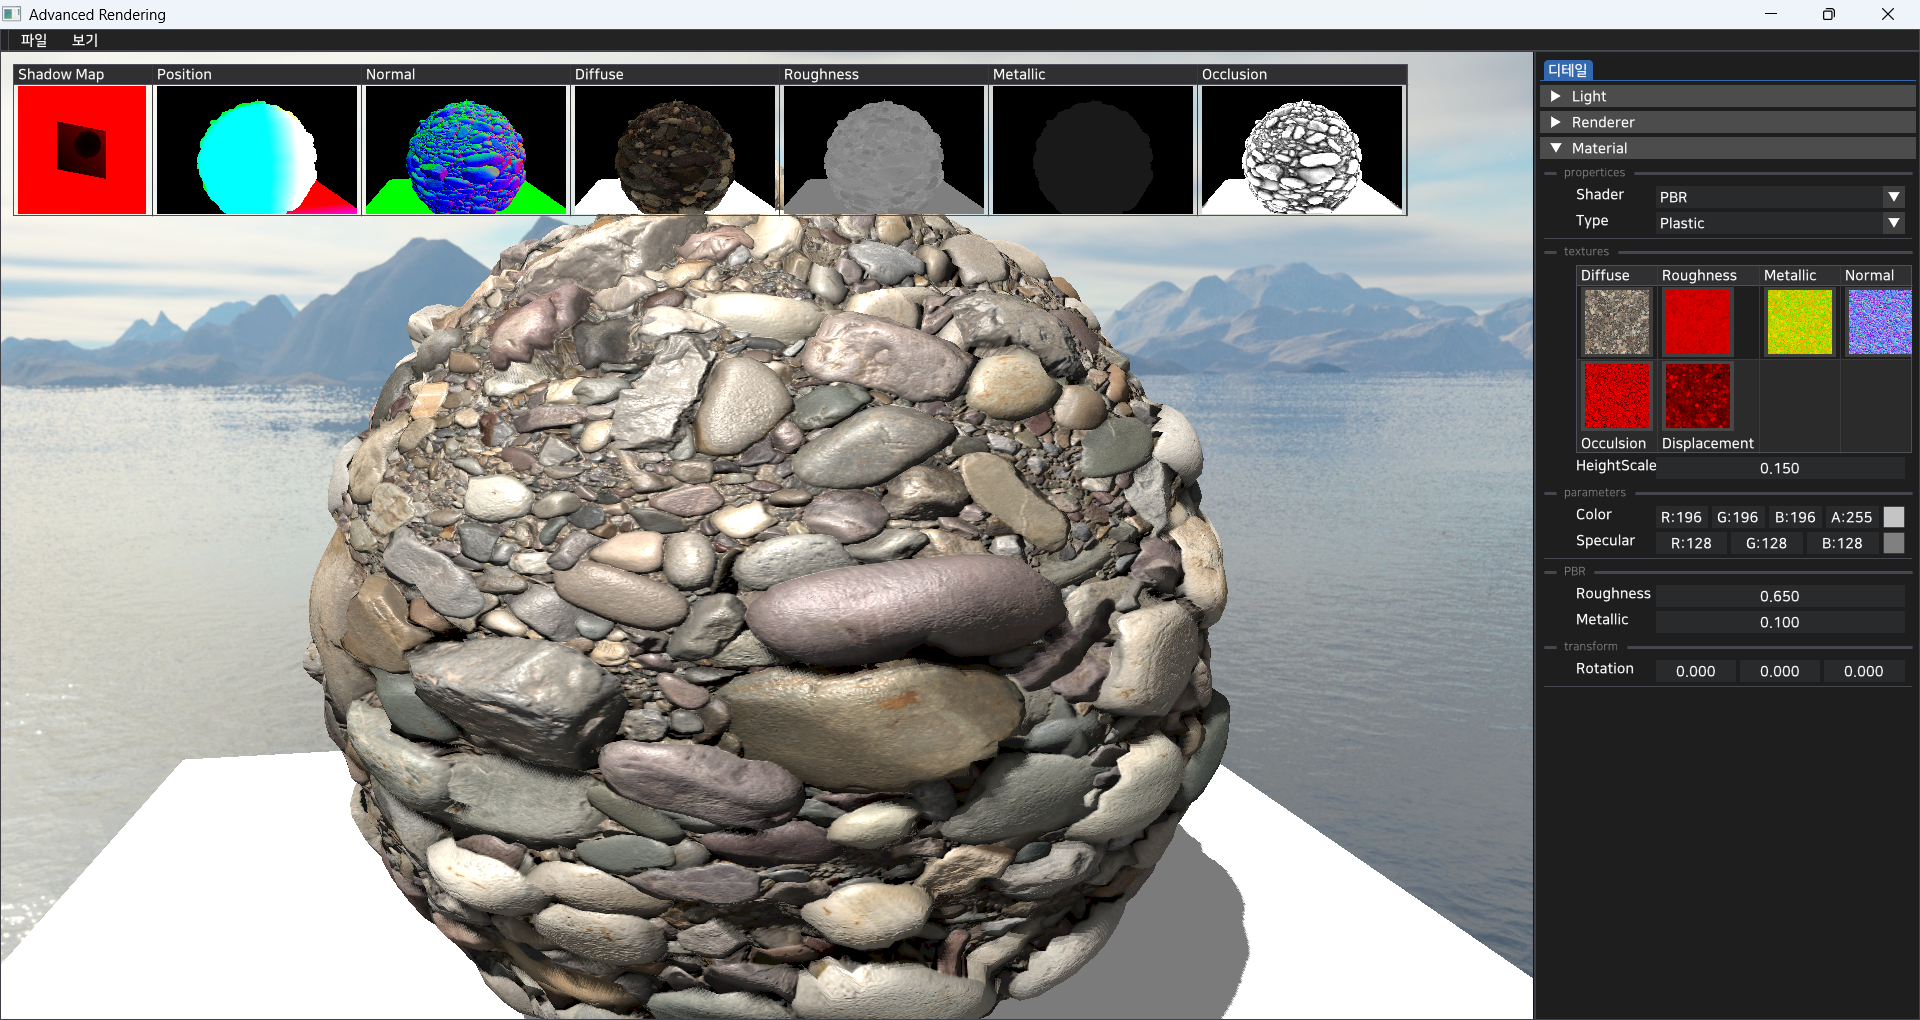
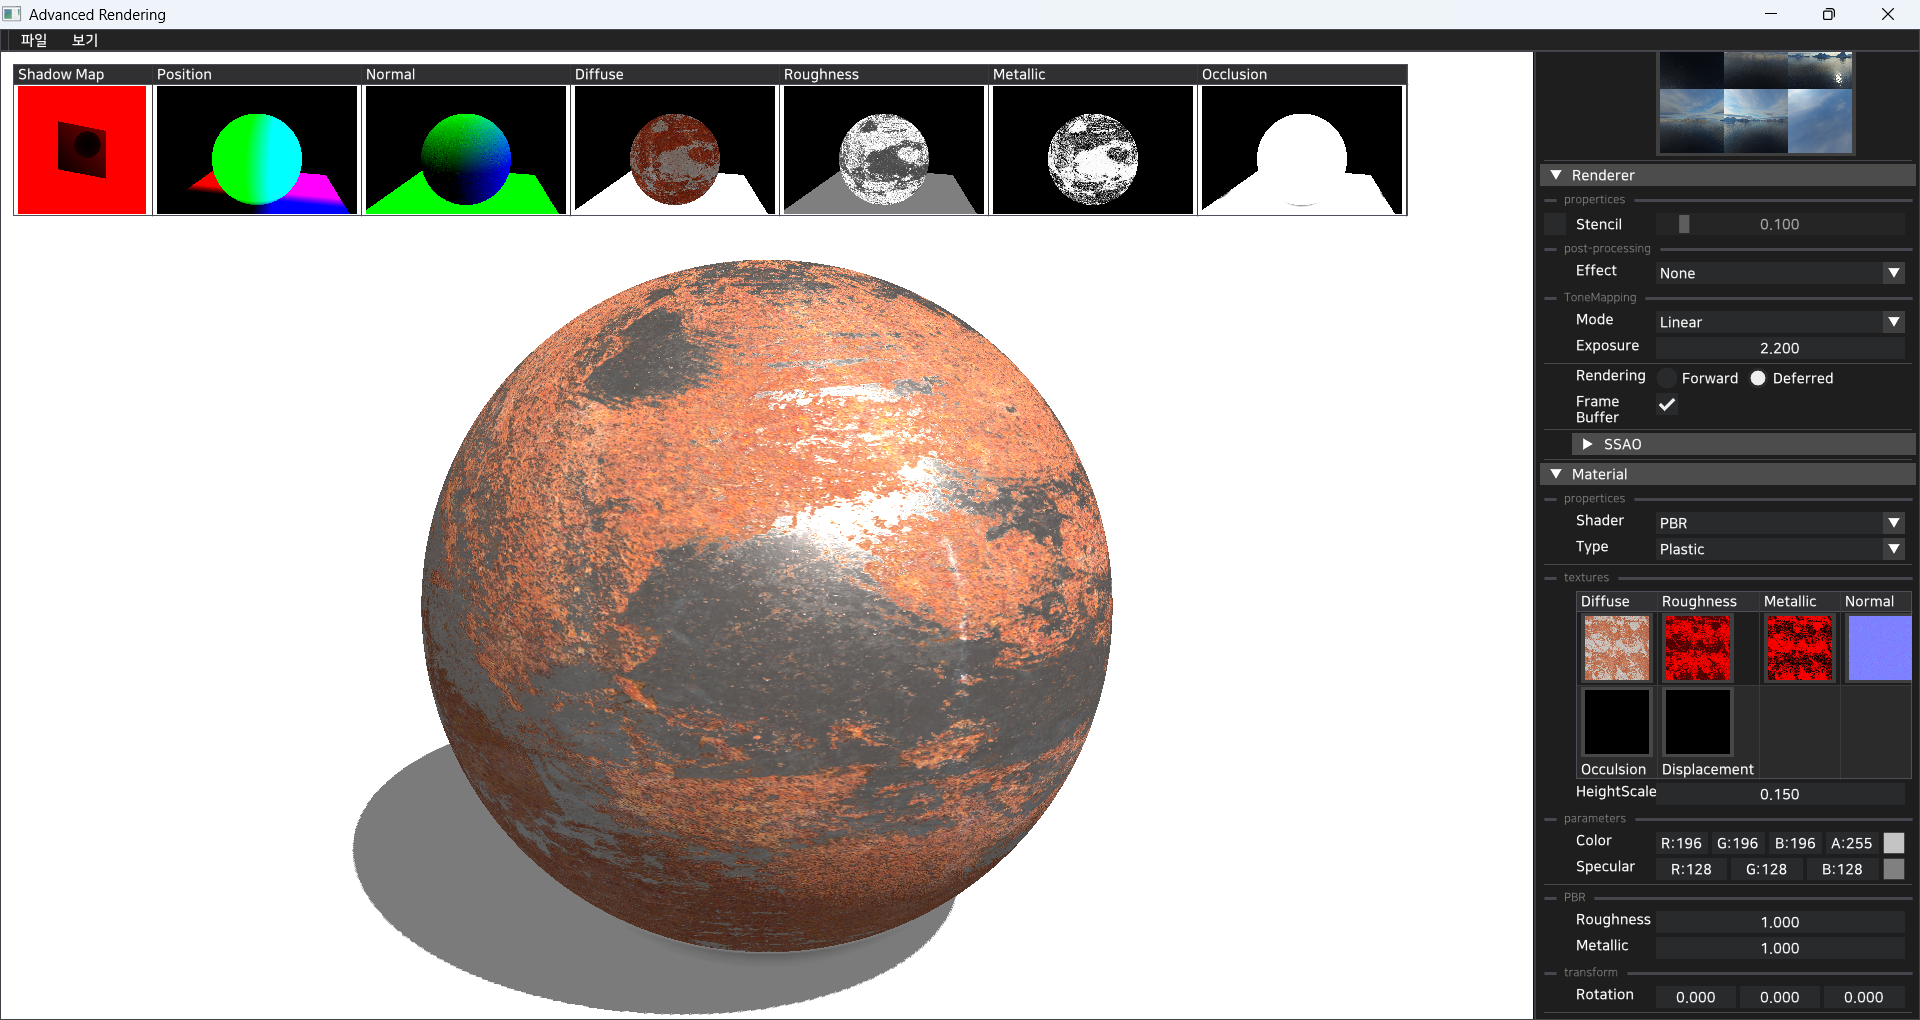
PBR 수정

diff --git a/src/renderer/private/renderer.cpp b/src/renderer/private/renderer.cpp
@@ -83,6 +83,9 @@ OpenGLRenderer::~OpenGLRenderer()
     glDeleteFramebuffers(1, &dfbo);
     glDeleteTextures(1, &dcbo);
     glDeleteBuffers(1, &vubo);
+    glDeleteTextures(1, &texViewOcclusion);
+    glDeleteTextures(1, &texViewRoughness);
+    glDeleteTextures(1, &texViewMetallic);
 }
 
 void OpenGLRenderer::CreateBuffer(int width, int height)
@@ -264,6 +267,9 @@ void OpenGLRenderer::ResizeBuffer(int width, int height)
     glDeleteTextures(1, &ssaoblurcbo);
     glDeleteFramebuffers(1, &dfbo);
     glDeleteTextures(1, &dcbo);
+    glDeleteTextures(1, &texViewOcclusion);
+    glDeleteTextures(1, &texViewRoughness);
+    glDeleteTextures(1, &texViewMetallic);
     CreateBuffer(width, height);
 }
 
@@ -411,6 +417,14 @@ void OpenGLRenderer::Draw()
                 parameter->diffuseTexture->Bind();
                 index++;
             }
+            if(parameter->normalTexture != nullptr)
+            {
+                gbufferShader->SetBool("bNormal", true);
+                gbufferShader->SetInt("normalTexture", index);
+                glActiveTexture(GL_TEXTURE0+index);
+                parameter->normalTexture->Bind();
+                index++;
+            }
             if(parameter->roughnessTextrue != nullptr)
             {
                 gbufferShader->SetBool("bRoughness", true);
@@ -419,12 +433,12 @@ void OpenGLRenderer::Draw()
                 parameter->roughnessTextrue->Bind();
                 index++;
             }
-            if(parameter->normalTexture != nullptr)
+            if(parameter->metallicTexture != nullptr)
             {
-                gbufferShader->SetBool("bNormal", true);
-                gbufferShader->SetInt("normalTexture", index);
+                gbufferShader->SetBool("bMetallic", true);
+                gbufferShader->SetInt("metallicTexture", index);
                 glActiveTexture(GL_TEXTURE0+index);
-                parameter->normalTexture->Bind();
+                parameter->metallicTexture->Bind();
                 index++;
             }
             if(parameter->aoTexture != nullptr)
@@ -451,8 +465,9 @@ void OpenGLRenderer::Draw()
             }
             gbufferShader->SetBool("bDisp", false);
             gbufferShader->SetBool("bDiffuse", false);
-            gbufferShader->SetBool("bRoughness", false);
             gbufferShader->SetBool("bNormal", false);
+            gbufferShader->SetBool("bRoughness", false);
+            gbufferShader->SetBool("bMetallic", false);            
             gbufferShader->SetBool("bAo", false);
             gbufferShader->EndProgam();
             glBindTexture(GL_TEXTURE_2D, 0);
@@ -685,6 +700,7 @@ void OpenGLRenderer::Draw()
     rendererShader->UseProgram();
     OpenGLShader* rendererOpenGLShader = static_cast<OpenGLShader*>(rendererShader.get());
     rendererOpenGLShader->SetInt("postEffecttype", postEffect);
+    rendererOpenGLShader->SetInt("toneType", toneType);
     rendererOpenGLShader->SetFloat("exposure", exposure);
     rendererOpenGLShader->SetInt("screenTexture", 0);
     glActiveTexture(GL_TEXTURE0);

diff --git a/src/resource/private/resourceManager.cpp b/src/resource/private/resourceManager.cpp
@@ -31,9 +31,19 @@ ResourceManager::ResourceManager()
     auto gangesdispTexture = std::make_unique<OpenGLTexture>("/textures/ganges_river_pebbles_disp_2k.png");
     ITexture* ptrgangesdispTexture = gangesdispTexture.get();
     textures.emplace("ganges_river_pebbles_disp_2k", std::move(gangesdispTexture));
-    auto gangesarmTexture = std::make_unique<OpenGLTexture>("/textures/ganges_river_pebbles_arm_2k.png");
-    ITexture* ptrgangesarmTexture = gangesarmTexture.get();
-    textures.emplace("ganges_river_pebbles_arm_2k", std::move(gangesarmTexture));
+    //create rustediron
+    auto rustedironDiffuseTexture = std::make_unique<OpenGLTexture>("/textures/rustediron2_basecolor.png");
+    ITexture* ptrrustedironDiffTexture = rustedironDiffuseTexture.get();
+    textures.emplace("rustediron2_basecolor", std::move(rustedironDiffuseTexture));
+    auto rustedironnorTexture = std::make_unique<OpenGLTexture>("/textures/rustediron2_normal.png");
+    ITexture* ptrrustedironnorTexture = rustedironnorTexture.get();
+    textures.emplace("rustediron2_normal", std::move(rustedironnorTexture));
+    auto rustedironroughTexture = std::make_unique<OpenGLTexture>("/textures/rustediron2_roughness.png");
+    ITexture* ptrrustedironroughTexture = rustedironroughTexture.get();
+    textures.emplace("rustediron2_roughness", std::move(rustedironroughTexture));
+    auto rustedironmetallicTexture = std::make_unique<OpenGLTexture>("/textures/rustediron2_metallic.png");
+    ITexture* ptrrustedironmetallicTexture = rustedironmetallicTexture.get();
+    textures.emplace("rustediron2_metallic", std::move(rustedironmetallicTexture));
     //create skybox texture
     std::vector<std::string> skyboxPaths
                                 {
@@ -94,12 +104,12 @@ ResourceManager::ResourceManager()
     IMaterial* ptrMaterial = standardMaterial.get();
     materials.emplace("standardMaterial", std::move(standardMaterial));
     OpenGLMaterial* mat = static_cast<OpenGLMaterial*>(ptrMaterial);
-    mat->AddTexture(ptrgangesDiffTexture, 1);
-    mat->AddTexture(ptrgangesroughTexture, 2);
-    mat->AddTexture(ptrgangesarmTexture, 3);
-    mat->AddTexture(ptrgangesnorTexture, 4);
-    mat->AddTexture(ptrgangesaoTexture, 5);
-    mat->AddTexture(ptrgangesdispTexture, 6);
+    mat->AddTexture(ptrrustedironDiffTexture, 1);//diffuse
+    mat->AddTexture(ptrrustedironnorTexture, 2);//normal
+    mat->AddTexture(ptrrustedironroughTexture, 3);//roughness
+    mat->AddTexture(ptrrustedironmetallicTexture, 4);//metallic
+    mat->AddTexture(nullptr, 5);//ao
+    mat->AddTexture(nullptr, 6);//displacement
     //create planeMaterial
     auto planeMaterial = std::make_unique<OpenGLMaterial>(ptrShader);
     materials.emplace("planeMaterial", std::move(planeMaterial));

diff --git a/src/renderer/private/material.cpp b/src/renderer/private/material.cpp
@@ -140,33 +140,33 @@ void OpenGLMaterial::AddTexture(ITexture* texture, int type)
         }
         case 2:
         {
-            GLint location = shader->GetLocation("roughnessTexture");
+            GLint location = shader->GetLocation("normalTexture");
             glUniform1i(location, 1);
             glActiveTexture(GL_TEXTURE1);
-            parameter.roughnessTextrue = texture;
+            parameter.normalTexture = texture;
             break;
         }
         case 3:
         {
-            GLint location = shader->GetLocation("metallicTexture");
+            GLint location = shader->GetLocation("roughnessTexture");
             glUniform1i(location, 2);
             glActiveTexture(GL_TEXTURE2);
-            parameter.metallicTexture = texture;
+            parameter.roughnessTextrue = texture;
             break;
         }
         case 4:
         {
-            GLint location = shader->GetLocation("normalTexture");
+            GLint location = shader->GetLocation("metallicTexture");
             glUniform1i(location, 3);
             glActiveTexture(GL_TEXTURE3);
-            parameter.normalTexture = texture;
+            parameter.metallicTexture = texture;
             break;
         }
         case 5:
         {
             GLint location = shader->GetLocation("aoTexture");
             glUniform1i(location, 4);
-            glActiveTexture(GL_TEXTURE3);
+            glActiveTexture(GL_TEXTURE4);
             parameter.aoTexture = texture;
             break;
         }
@@ -174,7 +174,7 @@ void OpenGLMaterial::AddTexture(ITexture* texture, int type)
         {
             GLint location = shader->GetLocation("dispTexture");
             glUniform1i(location, 5);
-            glActiveTexture(GL_TEXTURE4);
+            glActiveTexture(GL_TEXTURE5);
             parameter.dispTexture = texture;
             break;
         }

diff --git a/src/renderer/public/renderer.hpp b/src/renderer/public/renderer.hpp
@@ -6,6 +6,15 @@
 class IMesh;
 class IShader;
 
+enum ToneMappingType
+{
+    Linear = 0,
+    Reinhard,
+    Filmic,
+    ACES,
+    Agx
+};
+
 enum PostEffectType
 {
     None = 0,
@@ -62,6 +71,7 @@ class OpenGLRenderer:public IRenderer
         float* GetExposure(){return &exposure;}
         int* GetDeferred(){return &bDeferred;}
         void SetEffectType(PostEffectType type){postEffect = type;}
+        void SetToneType(ToneMappingType type){toneType = type;}
 
     private:
         void CreateBuffer(int width, int height);
@@ -85,6 +95,7 @@ class OpenGLRenderer:public IRenderer
         std::unique_ptr<IMesh> rendererMesh;
         std::unique_ptr<IShader> rendererShader;
         PostEffectType postEffect = PostEffectType::None;
+        ToneMappingType toneType = ToneMappingType::Linear;
         float exposure = 2.2f;
         //occlusion
         std::vector<glm::vec3>ssaoKernel;

diff --git a/src/core/private/editor.cpp b/src/core/private/editor.cpp
@@ -569,6 +569,7 @@ void Editor::CreateRightPanel()
                         const bool is_selected = (tone_item_selected_idx == n);
                         if (ImGui::Selectable(toneItems[n], is_selected))
                         {
+                            renderer->SetToneType((ToneMappingType)n);
                             tone_item_selected_idx = n;
                         }
                         if (is_selected)

diff --git a/README.md b/README.md
@@ -26,4 +26,6 @@
 
 ## 🖼 샘플 렌더 결과
 
+[text](screenshot) 스크린샷 폴더 확인
+
 ![alt text](screenshot/imageF.png)
